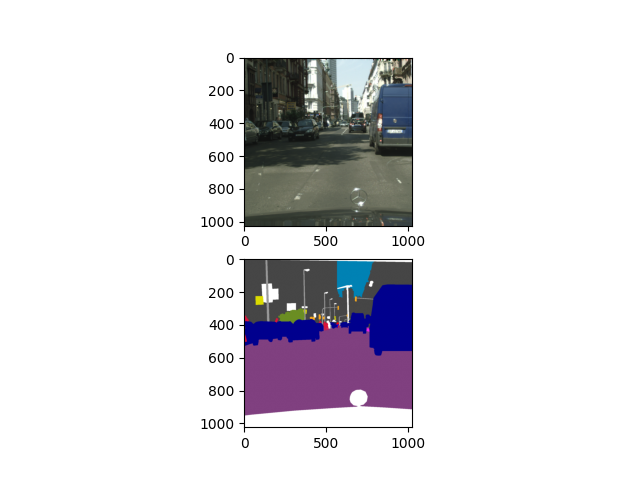
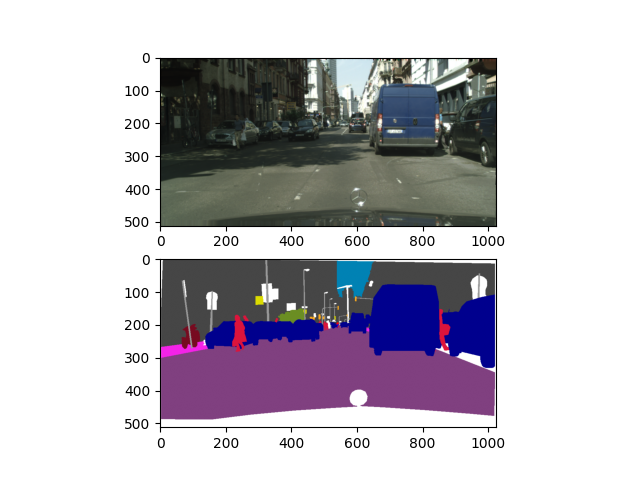
add ugment

diff --git a/utils/augment.py b/utils/augment.py
@@ -4,6 +4,10 @@ import numpy as np
 
 from PIL import Image, ImageOps, ImageFilter
 
+import torchvision.transforms as transforms
+from torchvision.transforms import functional as F
+from torchvision.transforms.functional import InterpolationMode
+
 class Normalize(object):
     """Normalize a tensor image with mean and standard deviation.
     Args:
@@ -148,9 +152,9 @@ class FixScaleCrop(object):
         return {'image': img,
                 'label': mask}
 
-class FixedResize(object):
+class FixedResize(transforms.Resize):
     def __init__(self, size):
-        self.size = (size, size)  # size: (h, w)
+        super().__init__(size, interpolation=InterpolationMode.BILINEAR)
 
     def __call__(self, sample):
         img = sample['image']
@@ -158,8 +162,41 @@ class FixedResize(object):
 
         assert img.size == mask.size
 
-        img = img.resize(self.size, Image.BILINEAR)
-        mask = mask.resize(self.size, Image.NEAREST)
+        img = F.resize(img, self.size, self.interpolation)
+        mask = F.resize(mask, self.size, InterpolationMode.NEAREST)
 
         return {'image': img,
                 'label': mask}
+        
+
+class RandomResizedCrop(transforms.RandomResizedCrop):
+
+    def __init__(self,
+                 size,
+                 scale=(0.08, 1.0),
+                 ratio=(3. / 4., 4. / 3.),
+                 interpolation=InterpolationMode.BILINEAR):
+        super().__init__(size, scale, ratio, interpolation)
+        
+        self.interpolation = interpolation
+        self.randomize_parameters()
+
+    def __call__(self, sample):
+        
+        img = sample['image']
+        mask = sample['label']
+
+        if self.randomize:
+            self.random_crop = self.get_params(img, self.scale, self.ratio)
+            self.randomize = False
+
+        i, j, h, w = self.random_crop
+        img = F.resized_crop(img, i, j, h, w, self.size, self.interpolation)
+
+        mask = F.resized_crop(mask, i, j, h, w, self.size, InterpolationMode.NEAREST)
+        
+        return {'image': img,
+        'label': mask}
+
+    def randomize_parameters(self):
+        self.randomize = True

diff --git a/utils/cityscapes.py b/utils/cityscapes.py
@@ -1,5 +1,8 @@
 from torch.utils.data import DataLoader, dataset
 import numpy as np
+from torchvision.models.detection import transform
+from torchvision.transforms.functional import scale
+from torchvision.transforms.transforms import RandomResizedCrop
 from utils.load_dataset import BaseDataset
 import torchvision.transforms as transforms
 import utils.augment as T
@@ -56,7 +59,7 @@ class CityScapes(BaseDataset):
 def transform_train():
     composed_transforms = transforms.Compose([
         T.RandomHorizontalFlip(),
-        T.RandomScaleCrop(1024, 512, fill=255),
+        T.RandomResizedCrop((512,1024), scale=(0.25, 2.)),
         T.RandomGaussianBlur(),
         T.Normalize(
             mean=(0.485, 0.456, 0.406), 
@@ -68,7 +71,7 @@ def transform_train():
 
 def transform_val():
     compose_transforms = transforms.Compose([
-        T.FixScaleCrop(1024),
+        T.FixedResize((512,1024)),
         T.Normalize(
             mean=(0.485, 0.456, 0.406), 
             std=(0.229, 0.224, 0.225)
@@ -79,7 +82,7 @@ def transform_val():
     
 def transform_test():
     compose_transforms = transforms.Compose([
-        T.FixedResize((1024,1024)),
+        T.FixedResize((512,1024)),
         T.Normalize(
             mean=(0.485, 0.456, 0.406), 
             std=(0.229, 0.224, 0.225)

diff --git a/train.py b/train.py
@@ -130,12 +130,12 @@ if __name__== "__main__":
     scheduler = ExponentialLR(optimizer, gamma=0.9)
     
     
-    net, optimizer, scheduler, current_epoch, current_miou = get_check_point(
-        './pretrained_models/BiSeNetv2_epoch_28_acc_0.4767.pt',
-        net,
-        optimizer, 
-        device
-        )
+    # net, optimizer, scheduler, current_epoch, current_miou = get_check_point(
+    #     'model_final_v2.pth',
+    #     net,
+    #     optimizer, 
+    #     device
+    #     )
     
     
 
